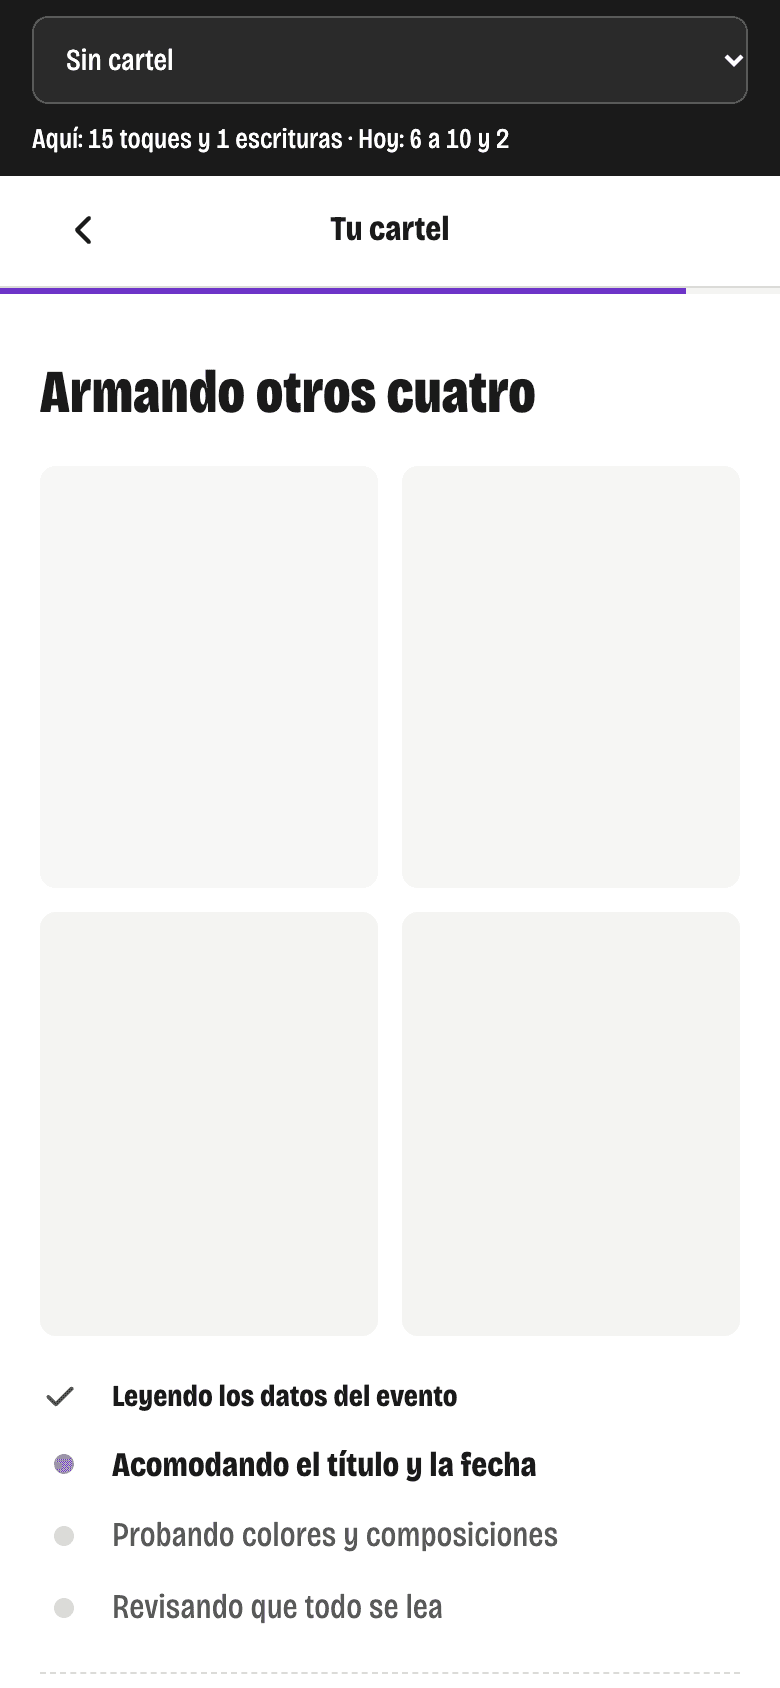
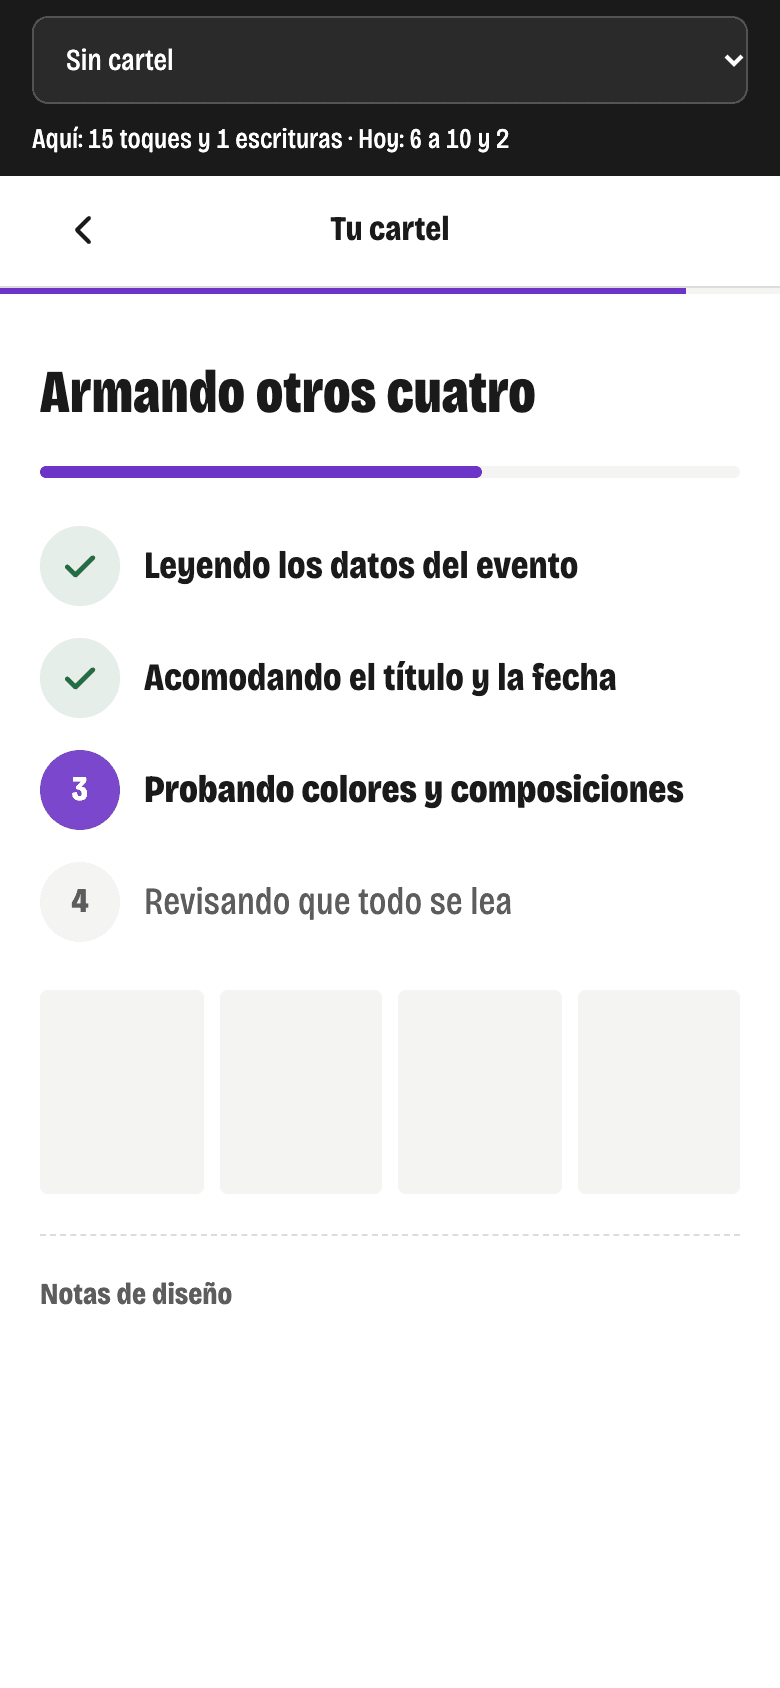
OL-295: el proceso de armar carteles, protagonista de la espera

diff --git a/docs/rediseno/prototipos/publicar-por-pasos.html b/docs/rediseno/prototipos/publicar-por-pasos.html
@@ -221,15 +221,18 @@ button.renglon { cursor: pointer; }
 .horas { display: grid; grid-template-columns: repeat(4, minmax(0, 1fr)); gap: var(--espacio-2); max-height: 46vh; overflow-y: auto; }
 .horas .chip { min-height: var(--toque-min); padding: 0; }
 .renglon.sin-clave { min-height: var(--toque); }
-.armando { display: grid; gap: var(--espacio-5); }
-.disenos.fantasma span { aspect-ratio: 4 / 5; border-radius: var(--radio); background: var(--fondo-suave); }
-.armando ol { display: grid; gap: var(--espacio-3); margin: 0; padding: 0; list-style: none; }
-.armando li { display: grid; grid-template-columns: 24px minmax(0, 1fr); column-gap: var(--espacio-3); align-items: center; color: var(--texto-suave); }
-.armando li.hecho { color: var(--texto); } .armando li.hecho svg { width: 20px; height: 20px; color: var(--ok); stroke-width: 2.4; }
-.armando li.ahora { color: var(--texto); font-weight: 700; }
-.armando li i { justify-self: center; width: 10px; height: 10px; border-radius: 50%; background: var(--borde); }
-.armando li.ahora i { background: var(--primario); }
-@media (prefers-reduced-motion: no-preference) { .disenos.fantasma span { animation: late 0.9s ease-in-out infinite alternate; } .disenos.fantasma span:nth-child(2) { animation-delay: 0.2s; } .disenos.fantasma span:nth-child(3) { animation-delay: 0.4s; } .disenos.fantasma span:nth-child(4) { animation-delay: 0.6s; } .armando li.ahora i { animation: late 0.5s ease-in-out infinite alternate; } }
+.armando { display: grid; gap: var(--espacio-6); }
+/* El proceso es lo que se mira: pasos grandes arriba, con su avance; los cuatro huecos, chicos y abajo. */
+.barra-armar { height: 6px; border-radius: var(--radio-pildora); background: var(--fondo-suave); overflow: hidden; }
+.barra-armar i { display: block; height: 100%; border-radius: var(--radio-pildora); background: var(--primario); transition: width 0.7s linear; }
+.armando ol { display: grid; gap: var(--espacio-4); margin: 0; padding: 0; list-style: none; }
+.armando li { display: grid; grid-template-columns: 40px minmax(0, 1fr); column-gap: var(--espacio-3); align-items: center; font-size: var(--letra-xl); line-height: 1.2; color: var(--texto-suave); }
+.armando .marca { display: grid; place-items: center; width: 40px; height: 40px; border-radius: 50%; background: var(--fondo-suave); font-size: var(--letra-md); font-weight: 700; }
+.armando li.hecho { color: var(--texto); } .armando li.hecho .marca { background: var(--ok-suave); color: var(--ok); } .armando li.hecho svg { width: 22px; height: 22px; stroke-width: 2.6; }
+.armando li.ahora { color: var(--texto); font-weight: 800; } .armando li.ahora .marca { background: var(--primario); color: var(--primario-texto); }
+.disenos.fantasma { grid-template-columns: repeat(4, minmax(0, 1fr)); gap: var(--espacio-2); }
+.disenos.fantasma span { aspect-ratio: 4 / 5; border-radius: var(--radio-chico, 4px); background: var(--fondo-suave); }
+@media (prefers-reduced-motion: no-preference) { .armando li.ahora .marca { animation: late 0.5s ease-in-out infinite alternate; } .disenos.fantasma span { animation: late 0.9s ease-in-out infinite alternate; } .disenos.fantasma span:nth-child(2) { animation-delay: 0.2s; } .disenos.fantasma span:nth-child(3) { animation-delay: 0.4s; } .disenos.fantasma span:nth-child(4) { animation-delay: 0.6s; } }
 /* El final. */
 .final { display: grid; justify-items: center; gap: var(--espacio-3); text-align: center; padding-top: var(--espacio-4); }
 .final .sello-ok { display: grid; place-items: center; width: 88px; height: 88px; border-radius: 50%; background: var(--ok); color: var(--primario-texto); }
@@ -393,7 +396,7 @@ const VISTAS = {
   }),
   flyer: () => (e.armando !== null ? {
     titulo: 'Tu cartel', pregunta: 'Armando otros cuatro',
-    cuerpo: `<div class="armando" role="status"><div class="disenos fantasma">${'<span></span>'.repeat(4)}</div><ol>${ARMAR.map((t, i) => `<li class="${i < e.armando ? 'hecho' : i === e.armando ? 'ahora' : ''}">${i < e.armando ? ic('ok') : '<i></i>'}${t}</li>`).join('')}</ol></div>`,
+    cuerpo: `<div class="armando" role="status"><div class="barra-armar"><i style="width:${Math.round(((e.armando + 0.5) / ARMAR.length) * 100)}%"></i></div><ol>${ARMAR.map((t, i) => `<li class="${i < e.armando ? 'hecho' : i === e.armando ? 'ahora' : ''}"><span class="marca">${i < e.armando ? ic('ok') : i + 1}</span>${t}</li>`).join('')}</ol><div class="disenos fantasma">${'<span></span>'.repeat(4)}</div></div>`,
     pie: '',
     notas: ['Pedido del founder (2026-10-05): «Ver otros» tarda a propósito unos segundos y enseña el trabajo que hay detrás, para que se sienta que pedir más cuesta esfuerzo (el umbral de Doherty al revés).', 'Los pasos que se muestran deben ser los que de verdad hace el sistema al armar cuatro carteles; si un día «Ver otros» tiene costo, aquí es donde se dice cuántos quedan.'],
   } : {

diff --git a/docs/bitacora/2026/10/323-publicar-por-pasos.md b/docs/bitacora/2026/10/323-publicar-por-pasos.md
@@ -142,3 +142,5 @@ El founder: «ok, solo deja en morado elegir y la linea, disminuye grosor, pero 
   - Nota del gestor: los pasos mostrados deben ser los que de verdad hace el sistema; si un día «Ver otros» tiene costo o cupo, se dice ahí con número («te quedan 2»), no solo con la espera.
 - El founder: «Podemos agregar un leve rebote al o los campos que faltan por llenar?» Los renglones por completar dan un rebote de 5 px, una vez, medio segundo después de entrar a la pantalla; apagado con «reducir movimiento». (Sustituye el «nada de rebotes» del doc 51 solo para este caso.) No se ve en captura fija.
 - Sin errores ni desbordes a 320 y 390.
+
+**Corrección del founder a la espera de «Ver otros»:** «el proceso de creación de carteles no se ve, se coloca debajo de skeletons, debe ser el elemento estelar en ese momento.» Ahora el proceso va arriba y en grande: barra de avance, cuatro pasos numerados de 19 px (hecho con paloma verde, el actual en violeta y negrita) y, debajo y chicos, los cuatro huecos. Captura `sin-13-disenos-armando` rehecha.
